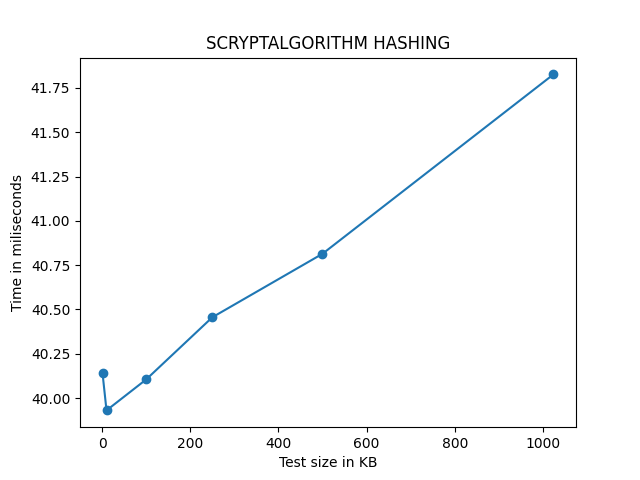
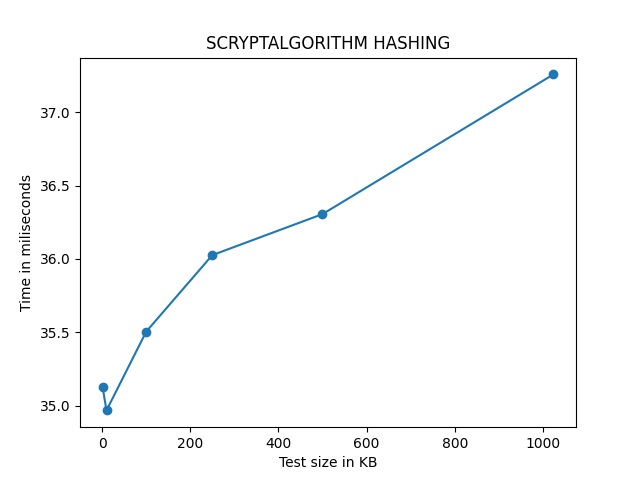
Correccion de Scrypt

diff --git a/hashers.py b/hashers.py
@@ -79,7 +79,7 @@ class ScryptAlgorithm(Hasher):
         self.salt = urandom(128)
         self.kdf = Scrypt(
             salt=self.salt,
-            length=4,
+            length=32,
             n=2**14,
             r=8,
             p=1
@@ -99,7 +99,7 @@ class ScryptAlgorithm(Hasher):
     def prepare_verify(self) -> None:
         self.kdf = Scrypt(
             salt=self.salt,
-            length=4,
+            length=32,
             n=2**14,
             r=8,
             p=1
